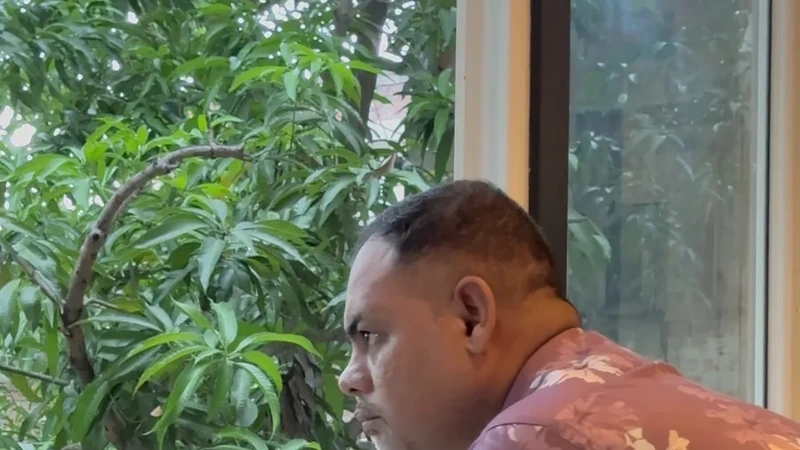
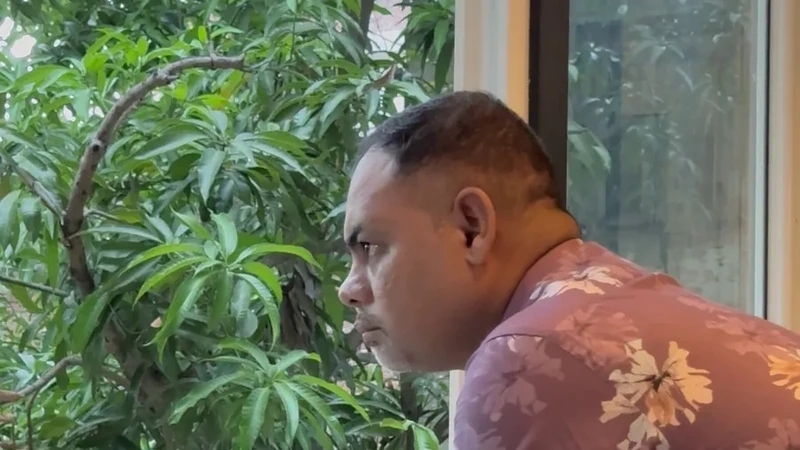
fix(rebuild): properly frame center hero photo and reposition badge clear of person

diff --git a/src/components/sections/RebuildRetreat.tsx b/src/components/sections/RebuildRetreat.tsx
@@ -238,8 +238,8 @@ export const RebuildRetreat: React.FC<RebuildRetreatProps> = ({ onOpenAssessment
                         decoding="async"
                         className="w-full h-full object-cover filter saturate-95 contrast-105"
                       />
-                      {/* Integrated Center Caption Badge */}
-                      <div className="absolute bottom-2 left-1/2 -translate-x-1/2 px-3.5 py-0.5 rounded-full bg-[#141A10]/90 backdrop-blur-sm border border-[#C79A45]/40 text-center max-w-[92%] shadow-md">
+                      {/* Integrated Center Caption Badge (Positioned over tree foliage to keep person unobstructed) */}
+                      <div className="absolute bottom-2.5 left-3 px-3.5 py-0.5 rounded-full bg-[#141A10]/90 backdrop-blur-sm border border-[#C79A45]/40 text-left max-w-[70%] shadow-md">
                         <span className="text-[10.5px] text-[#F6F1E4]/90 font-sans truncate block">
                           The 2-Day Reset Sanctuary Retreat.
                         </span>
